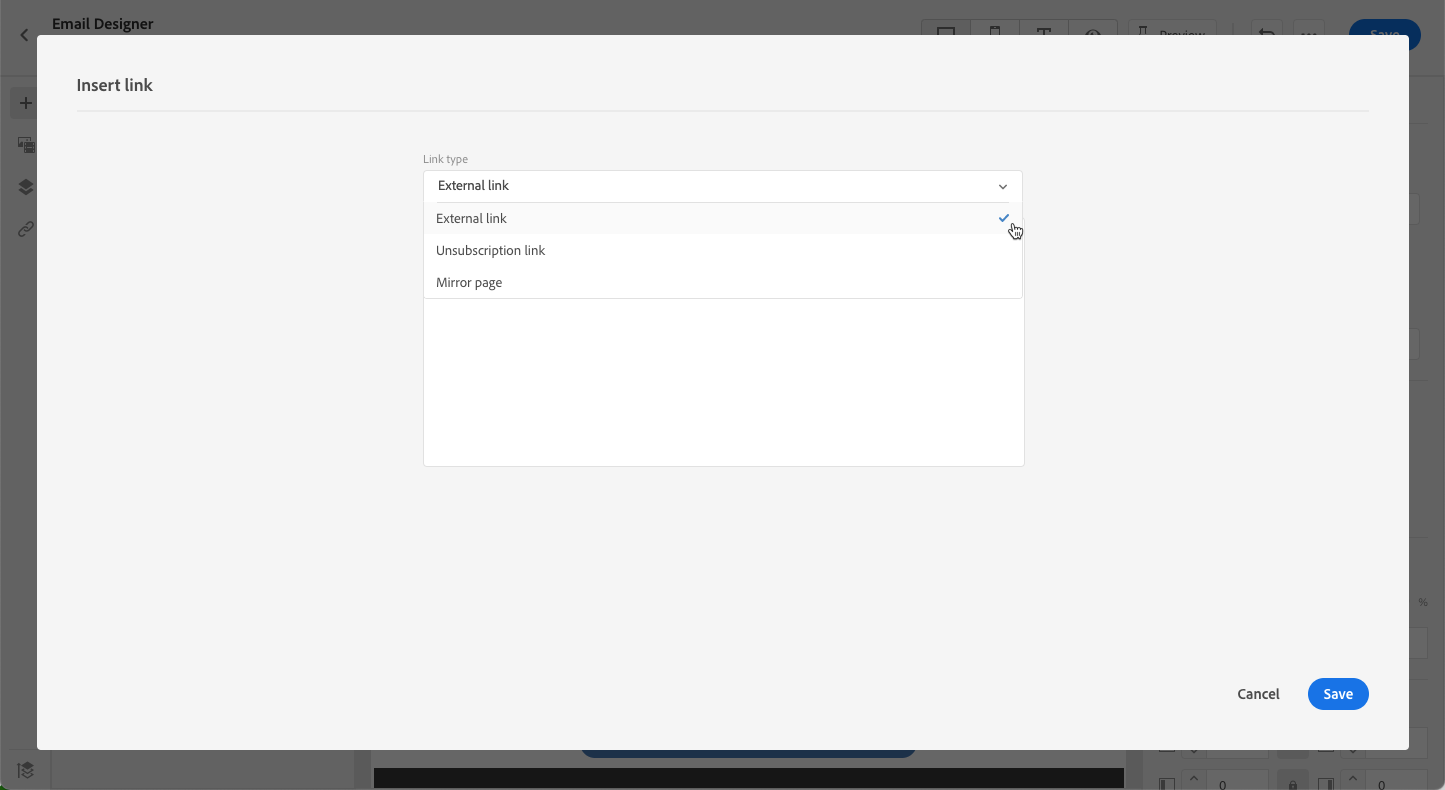
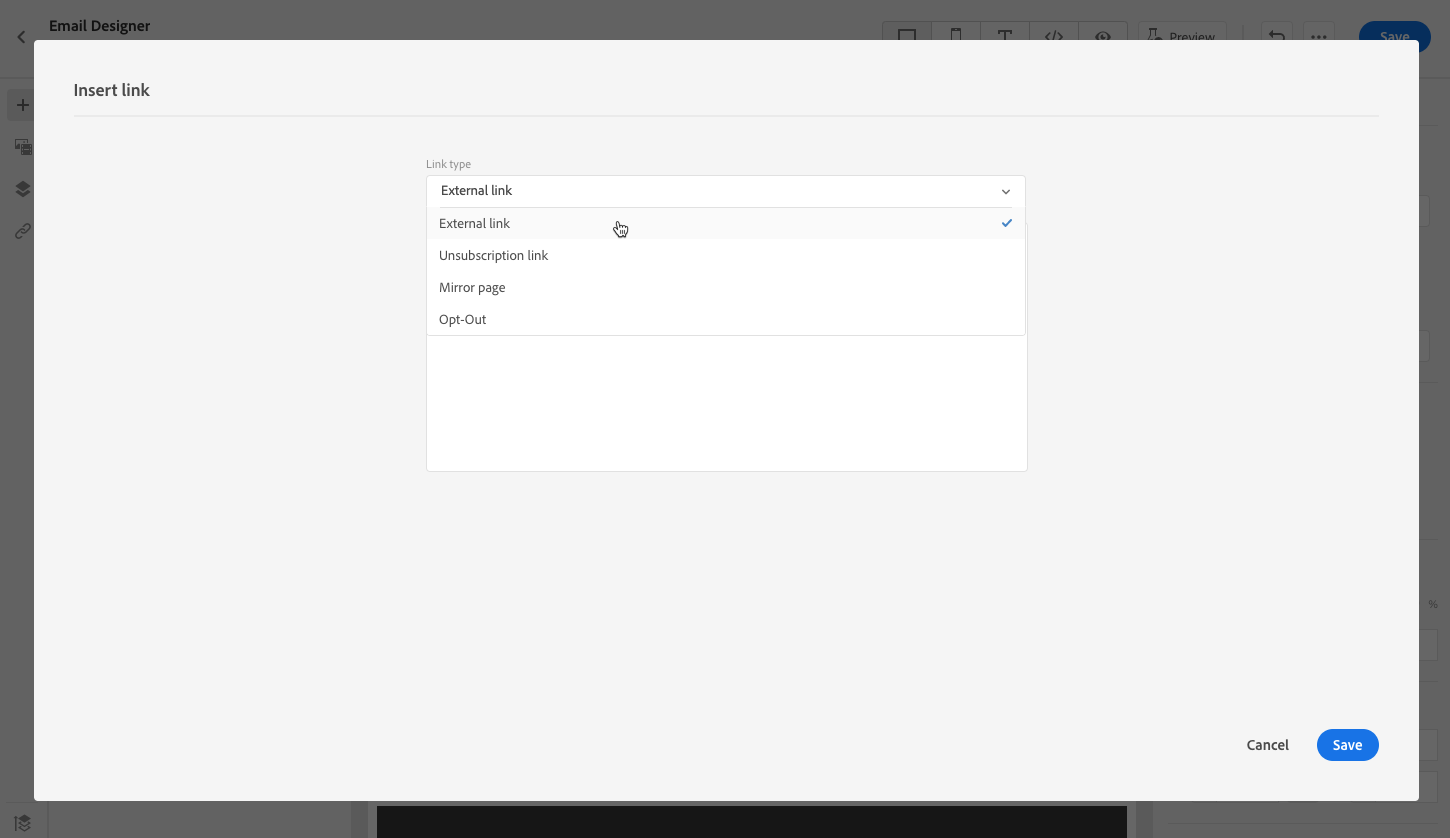
Opt-out sections added + screens (draft)

diff --git a/help/using/message-tracking.md b/help/using/message-tracking.md
@@ -46,6 +46,8 @@ To insert links into your email content, follow the steps below:
 
     * **[!UICONTROL Mirror page]**: Insert a link to display the email content in a web browser. Learn more in [this section](#mirror-page).
 
+    * **[!UICONTROL Opt-out]**: Insert a direct link to quicly unsubscribe from receiving communications from your brand, without being redirected to a landing page where you need to submit your choice. Learn more in [this section](#one-click-opt-out-link).
+
     ![](assets/message-tracking-links.png)
 
 1. You can personalize your links, using a simple expression only. Learn more on personalization in [this section](personalization/personalization-syntax.md).
@@ -80,6 +82,24 @@ Once the email is sent, when the recipients click the mirror page link, the cont
 >In the [proof](preview.md#send-proofs) sent to the test profiles, the link to the mirror page is not active. It is only activated in the final messages.
 
 The retention period for a mirror page is 60 days. After that delay, the mirror page will no longer be available.
+
+## One-click opt-out link {#one-click-opt-out-link}
+
+To enable your recipients to quickly unsubscribe from your communications, without being redirected to a landing page where they will need to confirm opting out, you can insert a one-click opt-out link into your email content.
+
+To add an opt-out link in your email:
+
+1. [Insert a link](#insert-links) and select **[!UICONTROL Opt-out]** as the type of link.
+
+    ![](assets/message-tracking-opt-out.png)
+
+1. Select how you want to apply the opting out: at the channel, profile, or subscription level.
+
+    ![](assets/message-tracking-opt-out-level.png)
+
+1. Enter the URL of the landing page where the user will be redirected once opted out. This page is only here to confirm to the user that opting out was successful.
+
+    ![](assets/message-tracking-opt-out-confirmation.png)
 
 ## Manage tracking {#manage-tracking}
 

diff --git a/help/using/consent.md b/help/using/consent.md
@@ -31,6 +31,8 @@ Therefore, you must always include an **unsubscribe link** in every email sent o
 * Upon clicking this link, the recipients will be directed to a landing page including a button to confirm opting out.
 * Upon clicking the opt-out button, an Adobe I/O call will be made to update the profile data with this information. [Learn more about this](#consent-service-api).
 
+### Add an unsubscribe link {#add-unsubscribe-link}
+
 To add an unsubscribe link, follow the steps below:
 
 1. Build your unsubscription landing page.
@@ -81,7 +83,7 @@ In the **[!UICONTROL Attributes]** tab, you can see the value for **[!UICONTROL 
 
 <!--The opt-out URL is resolved upon each recipient receiving the message. It is then personalized with the relevant encrypted parameters (profile ID, profile name, journey ID, sandbox ID, and message execution ID).-->
 
-## Opt-out API call {#opt-out-api}
+### Opt-out API call {#opt-out-api}
 
 Once the recipient has opted out by clicking the unsubscribe link, an Adobe I/O API <!--Consent service API to capture the encrypted data and-->is called to update the corresponding profile's preference.
 
@@ -123,6 +125,12 @@ Request body:
 
 <!--The Consent service /-->[!DNL Journey Optimizer] will <!--decrypt and-->use these parameters to update the corresponding profile's choice.
 <!--and provide an answer back to the landing page.-->
+
+## One-click opt-out {#one-click-opt-out}
+
+As many customers expect to speed up the process of opting out, you can also add a one-click opt-out link into your email content. This link will enable your recipients to quickly unsubscribe from your communications, without being redirected to a landing page where they will need to confirm opting out.
+
+Learn how to add an opt-out link to your message content in [this section](message-tracking.md#one-click-opt-out-link).
 
 ## Unsubscribe link in header {#unsubscribe-email}
 
